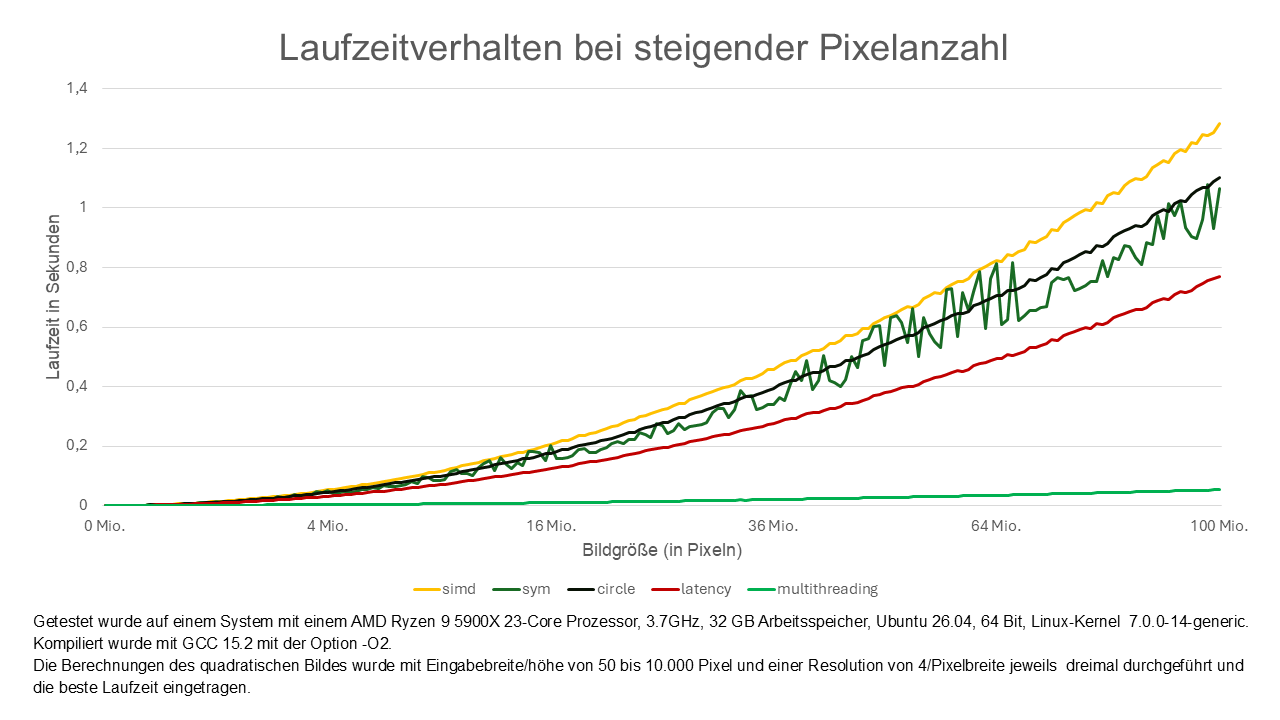
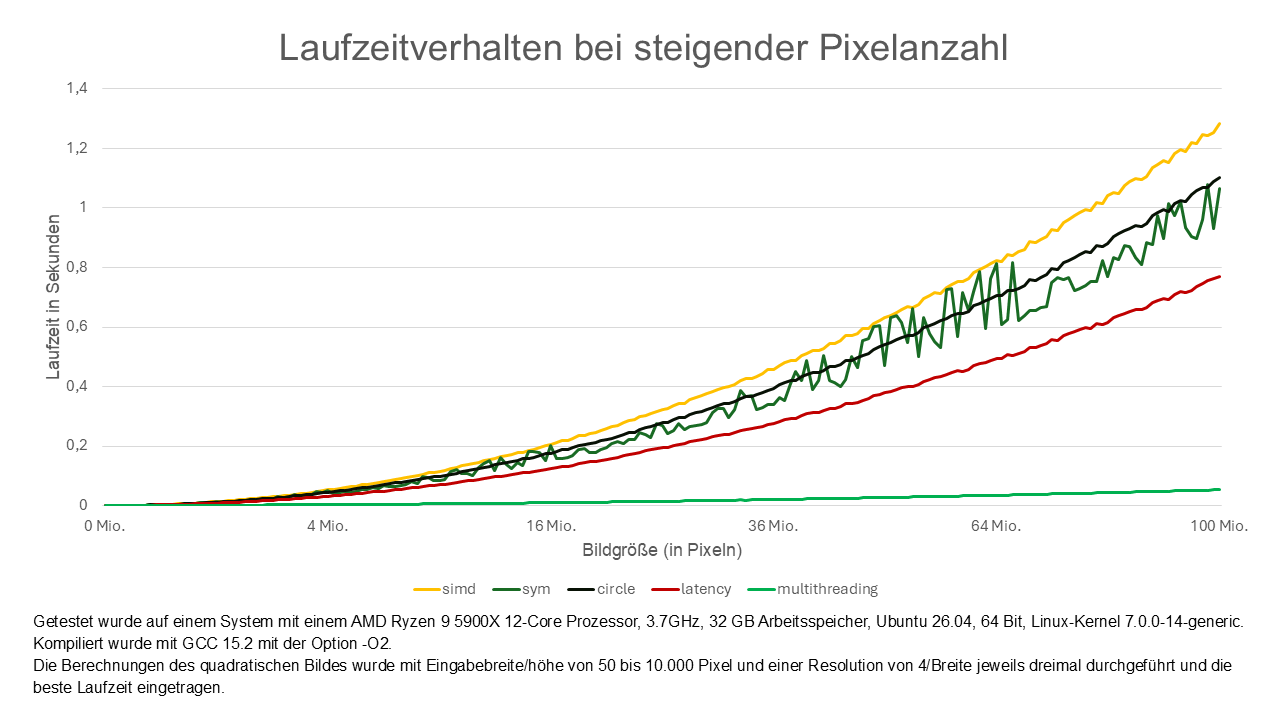
alten performance plot entfernt, Benchmark Dokumentation angepasst, Projektbericht

diff --git a/Projektbericht.md b/Projektbericht.md
@@ -45,7 +45,7 @@ obwohl die CPU in dieser Zeit rechnen könnte. Deshalb berechnen wir zwei 4er-La
 So können wir bspw. zwei add-Operationen hintereinander ausführen, ohne dass die zweite von dem Ergebnis der ersten
 abhängig ist und warten muss. Es werden nur zwei 4er-Lanes genutzt, weil es begrenzte xmm-Register gibt.
 
-### MutliThreading (Hauptimplementierung)
+### MultiThreading (Hauptimplementierung)
 
 Wir multithreaden entlang der y-Achse mit so vielen Threads, wie das System logische Prozessoren bereitstellt. 
 Nur bei sehr kleinen Bildern nutzen wir einen einzigen Thread, da sich der Thread-Overhead sonst nicht lohnt. 
@@ -62,9 +62,8 @@ Weiter wird die tricorn Funktion so oft aufgerufen, bis die summierte Ausführun
 Leider zählt hierbei auch das Ausführen der For-Schleife in die Messung, das nach der Vorlesung allerdings passt. 
 Außerdem wird die beste Messung aus dreimal Wiederholungen verwendet, um eventuelle Störungen, die wir nicht mitmessen wollen, zu vermeiden.
 
-Um die die Performanz der verschiedenen Versionen besser vergleichen zu können, plotten wir die Performanz dieser, bei
+Um die Performanz der verschiedenen Versionen besser vergleichen zu können, plotten wir die Performanz dieser, bei
 steigender Größe eines quadratischen Bildes (mit ebenfalls steigender Auflösung).
-  
 
 ## Testumgebung (Korrektheit)
 
@@ -96,9 +95,5 @@ spezielle Konfiguration wie Startwert und Auflösung dort nicht zugänglich gema
 ## Arbeitsaufteilung
 
 - Maximilian: Optimierungen, Testumgebung, Grapherstellung
-- Timon: Testumgebung, 
+- Timon: Testumgebung, Help Funktion, Benchmarking
 - Hendrik: Bitmap, Makefile, Kommentare, Verarbeitung der Kommandozeilenargumente 
-
-
-
-
